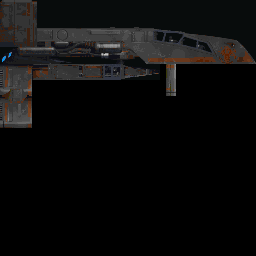
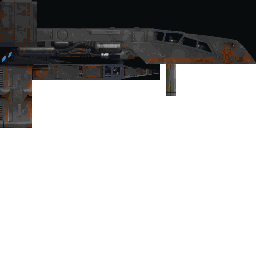
deal with transparent dfBitmap

diff --git a/Project1/darkforces/dfBitmap.cpp b/Project1/darkforces/dfBitmap.cpp
@@ -30,7 +30,8 @@ struct dfBitMapHeaderSub {
 	char pad1[3];
 	char u1e[3];	 // these are always filled, but they seem // to be unused 
 	char pad2[5];
-	char Transparent; // 0x36 for normal // 0x3E for transparent pad3 byte[3] 
+	char Transparent; // 0x36 for normal // 0x3E for transparent // 008 for weapons
+	char pad3[3];
 };
 
 struct dfBitmapHeaderMultiple {
@@ -106,10 +107,10 @@ dfBitmap::dfBitmap(dfFileSystem* fs, std::string file, dfPalette* palette) :
 			// target size may be changed later
 			image.m_targetHeight = image.m_height = subImage->SizeY;
 			image.m_targetWidth  = image.m_width = subImage->SizeX;
-			image.m_transparent = (subImage->Transparent == '\x3e');
+			image.m_transparent = (subImage->Transparent == '\x3e' || subImage->Transparent == '\x08');
 			image.m_raw = (char *)subImage + sizeof(dfBitMapHeaderSub);
-			image.m_nrChannels = 3;
-			image.m_data = convert2rgb(&image, palette);
+			image.m_nrChannels = 4;
+			image.m_data = convert2rgba(&image, palette);
 
 			m_images.push_back(image);
 		}
@@ -120,10 +121,15 @@ dfBitmap::dfBitmap(dfFileSystem* fs, std::string file, dfPalette* palette) :
 		image.m_size = m_header->DataSize;
 		image.m_targetHeight = image.m_height = height;
 		image.m_targetWidth = image.m_width = width;
-		image.m_transparent = (m_header->Transparent == '\x3e');
+		image.m_transparent = (m_header->Transparent == '\x3e' || m_header->Transparent == '\x08');
+
+		if (m_header->Compressed != 0) {
+			std::cerr << "dfBitmap::dfBitmap compress not implemented" << std::endl;
+		}
+
 		image.m_raw = (char*)m_header + sizeof(dfBitmapHeader);
-		image.m_nrChannels = 3;
-		image.m_data = convert2rgb(&image, palette);
+		image.m_nrChannels = 4;
+		image.m_data = convert2rgba(&image, palette);
 
 		m_images.push_back(image);
 	}
@@ -132,16 +138,12 @@ dfBitmap::dfBitmap(dfFileSystem* fs, std::string file, dfPalette* palette) :
 /**
  * Convert palette based to RGB
  */
-char *dfBitmap::convert2rgb(dfBitmapImage *raw, dfPalette *palette)
+char *dfBitmap::convert2rgba(dfBitmapImage *raw, dfPalette *palette)
 {
-	if (raw->m_transparent) {
-		std::cerr << "dfBitmap::convert2rgb Transparency not implemented" << std::endl;
-	}
-
 	int size = raw->m_width * raw->m_height;
-	char* image = new char[size * 3];
+	char* image = new char[size * 4];
 	int p, p1 = 0;
-	glm::ivec4 *rgb;
+	glm::ivec4 *rgba;
 	unsigned char v;
 
 	// RAW images are stored by column
@@ -150,12 +152,13 @@ char *dfBitmap::convert2rgb(dfBitmapImage *raw, dfPalette *palette)
 		for (auto y = raw->m_width - 1; y >= 0; y--) {
 			p = y * raw->m_height + x;
 			v = raw->m_raw[p];
-			rgb = palette->getColor(v, false);
+			rgba = palette->getColor(v, raw->m_transparent);
 
-			image[p1] = rgb->r;
-			image[p1 + 1] = rgb->g;
-			image[p1 + 2] = rgb->b;
-			p1 += 3;
+			image[p1] = rgba->r;
+			image[p1 + 1] = rgba->g;
+			image[p1 + 2] = rgba->b;
+			image[p1 + 3] = rgba->a;
+			p1 += 4;
 		}
 	}
 
@@ -217,28 +220,30 @@ fwSkyline* dfBitmapImage::convert2skyline(void)
 	unsigned char c;
 	int p, p1, p2, p3;
 	for (auto y = 0; y < m_height / 4; y++) {
-		p = y * m_width * 3;
-		p1 = (m_height / 2 - y - 1) * m_width * 3;
+		p = y * m_width * 4;
+		p1 = (m_height / 2 - y - 1) * m_width * 4;
 
-		p2 = p + (m_height / 2 * m_width * 3);
-		p3 = p1 + (m_height / 2 * m_width * 3);
+		p2 = p + (m_height / 2 * m_width * 4);
+		p3 = p1 + (m_height / 2 * m_width * 4);
 
 		for (auto x = 0; x < m_width; x++) {
 			c = m_data[p1]; m_data[p1] = m_data[p]; m_data[p] = c;
 			c = m_data[p1+1]; m_data[p1+1] = m_data[p+1]; m_data[p+1] = c;
 			c = m_data[p1+2]; m_data[p1+2] = m_data[p+2]; m_data[p+2] = c;
+			c = m_data[p1 + 3]; m_data[p1 + 3] = m_data[p + 3]; m_data[p + 3] = c;
 
 			c = m_data[p3]; m_data[p3] = m_data[p2]; m_data[p2] = c;
 			c = m_data[p3 + 1]; m_data[p3 + 1] = m_data[p2 + 1]; m_data[p2 + 1] = c;
 			c = m_data[p3 + 2]; m_data[p3 + 2] = m_data[p2 + 2]; m_data[p2 + 2] = c;
+			c = m_data[p3 + 3]; m_data[p3 + 3] = m_data[p2 + 3]; m_data[p2 + 3] = c;
 
-			p += 3;
-			p1 += 3;
-			p2 += 3;
-			p3 += 3;
+			p += 4;
+			p1 += 4;
+			p2 += 4;
+			p3 += 4;
 		}
 	}
-	return new fwSkyline((unsigned char *)m_data, m_width, m_height, 3, 4, 1);
+	return new fwSkyline((unsigned char *)m_data, m_width, m_height, 4, 4, 1);
 }
 
 /**

diff --git a/Project1/darkforces/dfBitmap.h b/Project1/darkforces/dfBitmap.h
@@ -51,7 +51,7 @@ class dfBitmap {
 	int m_nbImages = 1;
 	int m_framerate = 0;
 	std::vector<dfBitmapImage> m_images;
-	char *convert2rgb(dfBitmapImage* raw, dfPalette* palette);
+	char *convert2rgba(dfBitmapImage* raw, dfPalette* palette);
 
 public:
 	std::string m_name;
